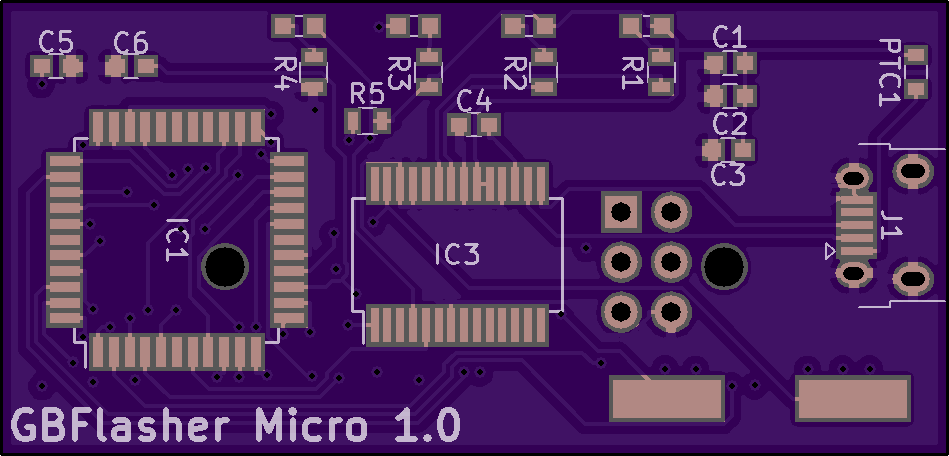
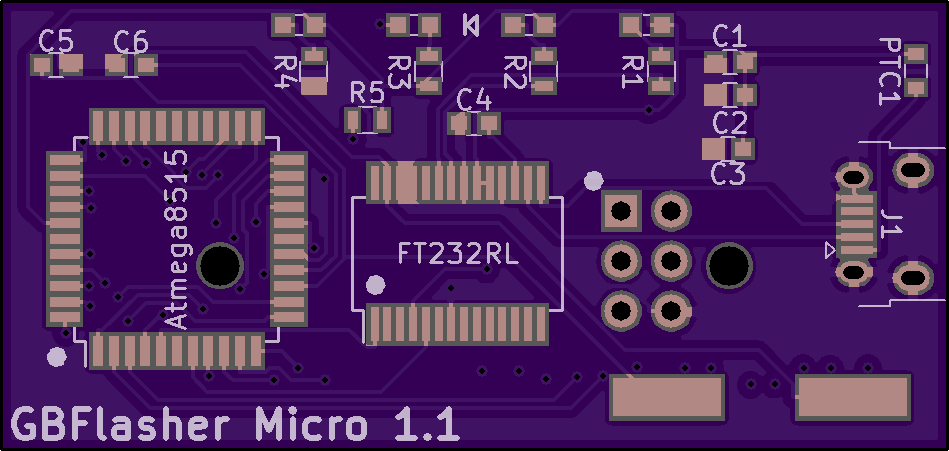
Revision 1.1

diff --git a/readme.md b/readme.md
@@ -1,7 +1,7 @@
 # The worlds smallest Game Boy cart flasher!
 A clone [J.Rodrigo's flasher](https://www.tindie.com/products/JRodrigo/cart-flasher-for-gameboy/)
 
-[Purchase on OSHPARK](https://oshpark.com/shared_projects/pWrIHS3I)
+[Purchase on OSHPARK](https://oshpark.com/shared_projects/ebaDN5Ku)
 
 
 ## Images
@@ -21,8 +21,8 @@ A clone [J.Rodrigo's flasher](https://www.tindie.com/products/JRodrigo/cart-flas
 | C4 | 0603ZD104KAT2A | 0.1uF |
 | C5 | C0603C220J5RACTU | 22pF |
 | C6 | C0603C220J5RACTU | 22pF |
-| IC1 | Atmega8515L-8AU ||
-| IC3 | FT232RL ||
+| Atmega8515 | Atmega8515L-8AU ||
+| FT232RL | FT232RL ||
 | J1 | E10103594-0001LF | Micro USB Receptacle |
 | J2 | Buy from Aliexpress | Cartridge Reader |
 | LED1 | LSM0603453V | Green 0603 LED |
@@ -36,3 +36,15 @@ A clone [J.Rodrigo's flasher](https://www.tindie.com/products/JRodrigo/cart-flas
 | R4 | ERJ-PB3D1001V | 1K |
 | R5 | NTR06B1002DTRF | 10K |
 | XTAL1 | ECS-60-32-5PXDN-TR | 6MHz 0603 Crystal |
+
+**1.1 Changelog:**
+
+- Added indicators for the chips and header to make the pcb easier to assemble
+
+- Added indicator for LED positioning
+
+- Reduced pcb height by 0.3mm
+
+- Fixed positioning of cartridge reader guide holes
+
+- Renamed IC1 and IC3 to make more sense
